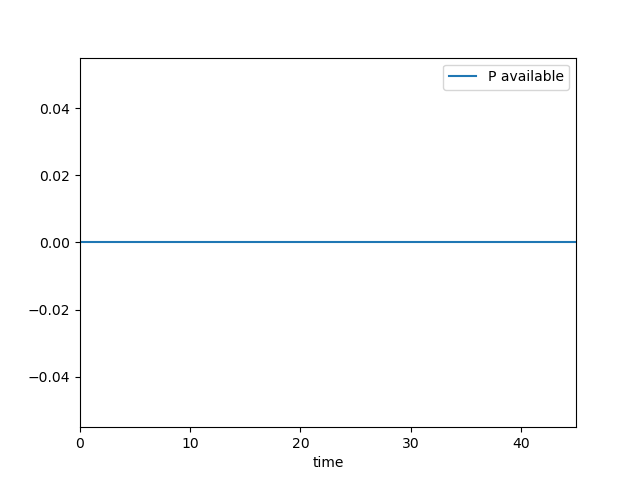
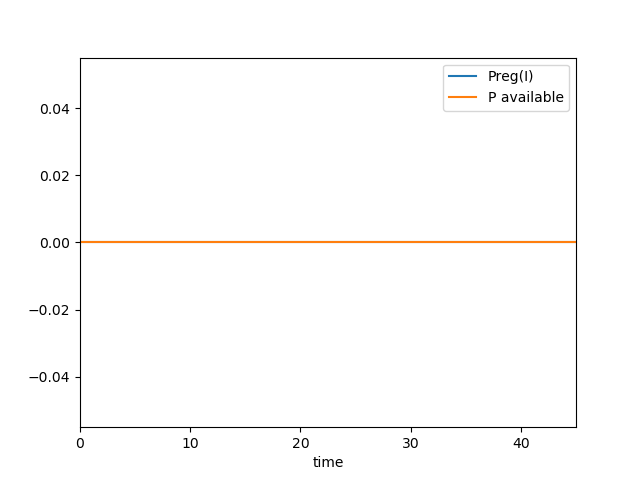
20240326

Changed region(s): [[0.125, 0.5, 0.9062, 0.5312], [0.6875, 0.125, 0.9062, 0.2188]]

diff --git a/AGC/plot.py b/AGC/plot.py
@@ -40,9 +40,9 @@ psspy.var_channel([2,1883])
 psspy.var_channel([3,1884]) 
 psspy.var_channel([4,1885])
 NDM   = 10
-bus   = [  704, 831, 832,   861,   862,   863,   864,   865,   110,   111]
-id    = [  "4", "1", "1",   "1",   "1",   "1",   "1",   "1",   "1",   "1"]
-pmax  = [240.5, 105, 105, 24.05, 24.05, 24.05, 24.05, 24.05,   500,   500]
+bus   = [   704, 831, 832,   861,   862,   863,   864,   865,   110,   111]
+id    = [   "4", "1", "1",   "1",   "1",   "1",   "1",   "1",   "1",   "1"]
+pmax  = [240.77, 105, 105, 24.05, 24.05, 24.05, 24.05, 24.05,   500,   500]
 for i in range(0, NDM*4+2):
     psspy.var_channel([5+i,1886+i])     # L+3 
 
@@ -152,7 +152,7 @@ for i in range(5, NDM+5):
     #     plt.legend ()
     #     plt.xlim   ([0,chandata['time'][-1]])
     #     plt.xlabel ('time')
-for i in range(2+NDM*4, 2+NDM*4+1):
+for i in range(5+NDM*4, 5+NDM*4+1):
     freq    = [f for f in chandata[i]]
     plt.figure (i)
     plt.plot   (chandata['time'], freq, label='P available')
